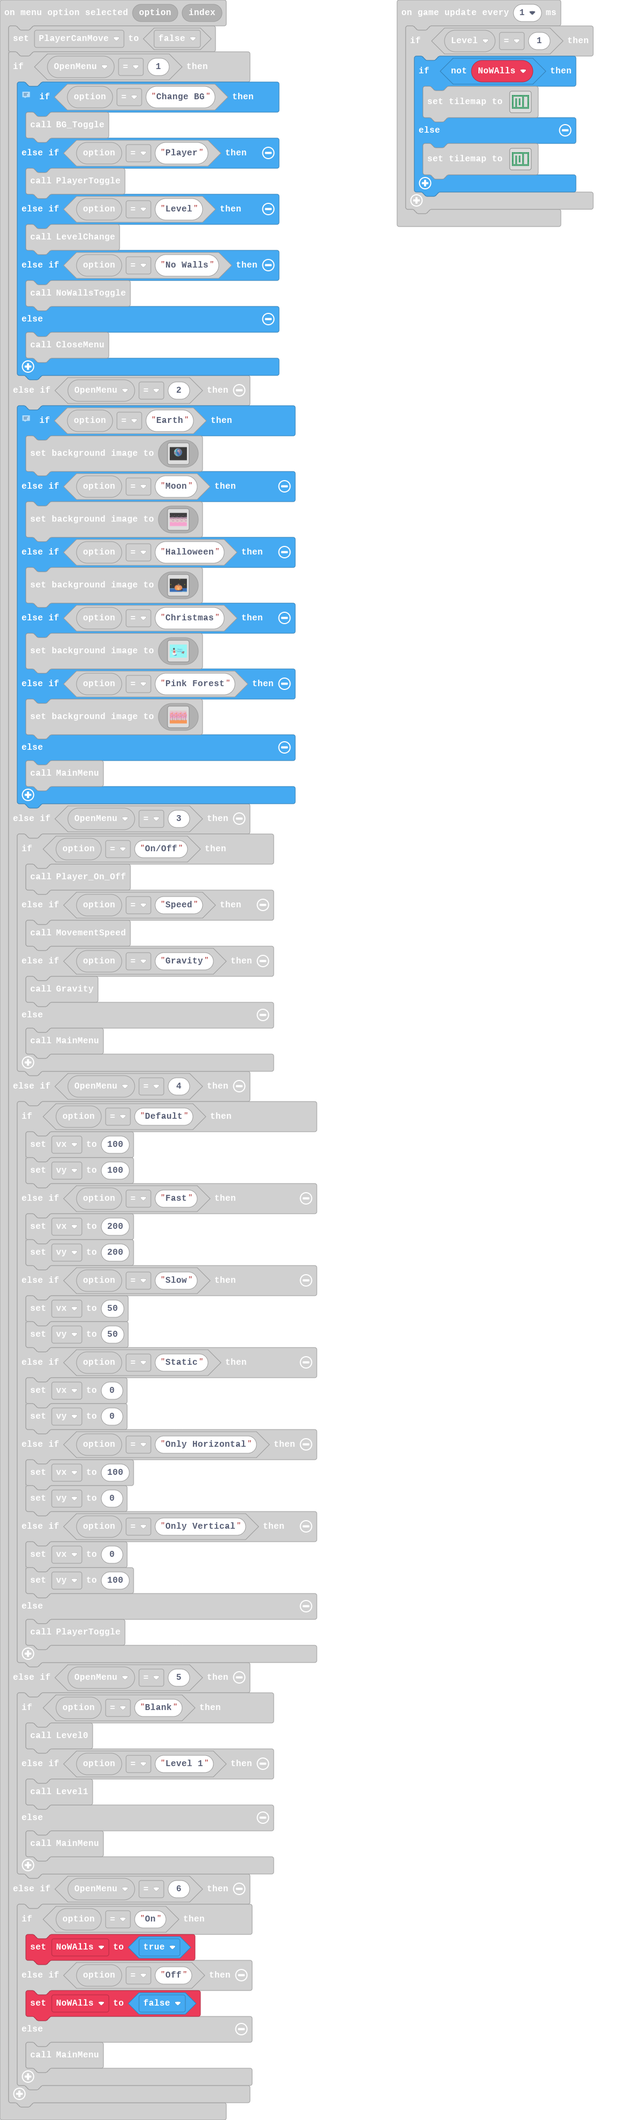
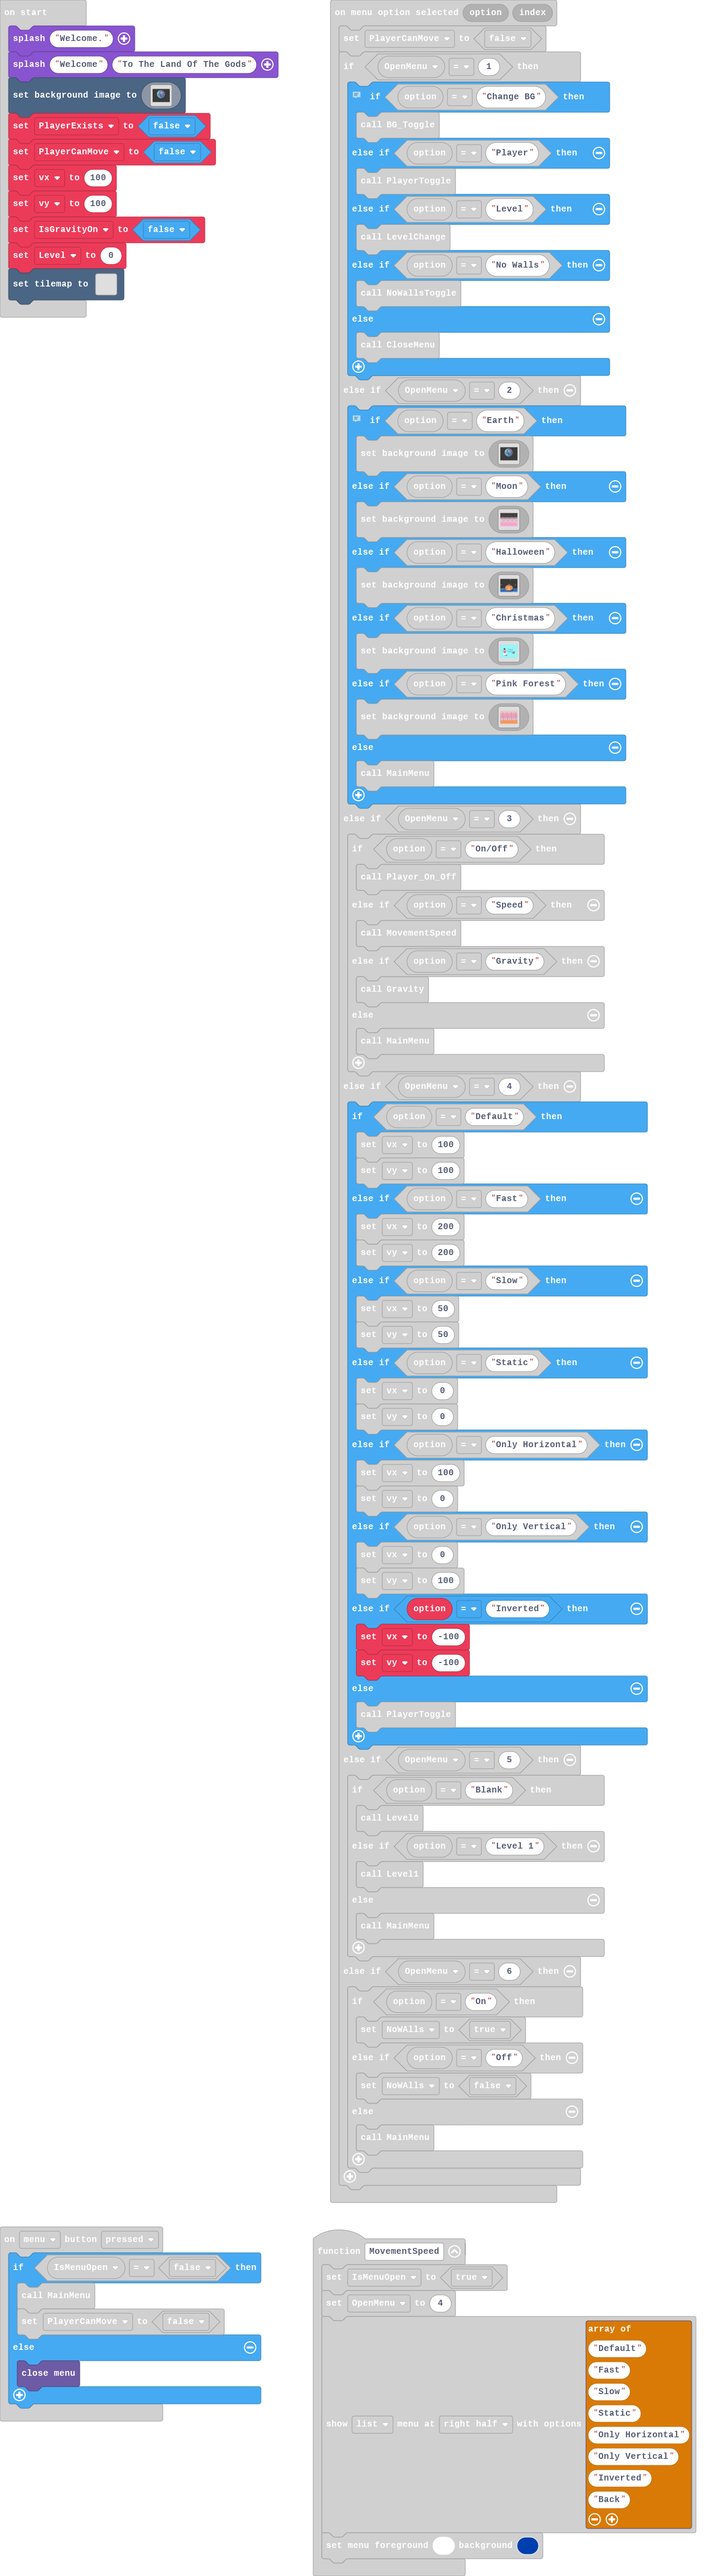
e

diff --git a/main.ts b/main.ts
@@ -101,6 +101,8 @@ controller.menu.onEvent(ControllerButtonEvent.Pressed, function () {
     if (IsMenuOpen == false) {
         MainMenu()
         PlayerCanMove = false
+    } else {
+        blockMenu.closeMenu()
     }
 })
 function MovementSpeed () {
@@ -113,6 +115,7 @@ function MovementSpeed () {
     "Static",
     "Only Horizontal",
     "Only Vertical",
+    "Inverted",
     "Back"
     ], MenuStyle.List, MenuLocation.RightHalf)
     blockMenu.setColors(1, 8)
@@ -785,6 +788,9 @@ blockMenu.onMenuOptionSelected(function (option, index) {
         } else if (option == "Only Vertical") {
             vx = 0
             vy = 100
+        } else if (option == "Inverted") {
+            vx = -100
+            vy = -100
         } else {
             PlayerToggle()
         }
@@ -822,6 +828,8 @@ let vy = 0
 let vx = 0
 let PlayerCanMove = false
 let PlayerExists = false
+game.splash("Welcome.")
+game.splash("Welcome", "To The Land Of The Gods")
 scene.setBackgroundImage(img`
     ffffffffffffffffffffffffffffffffffffffffffffffffffffffffffffffffffffffffffffffffffffffffffffffffffffffffffffffffffffffffffffffffffffffffffffffffffffffffffffffff
     ffffffffffffffffffffffffffffffffffffffffffffffffffffffffffffffffffffffffffffffffffffffffffffffffffffffffffffffffffffffffffffffffffffffffffffffffffffffffffffffff
